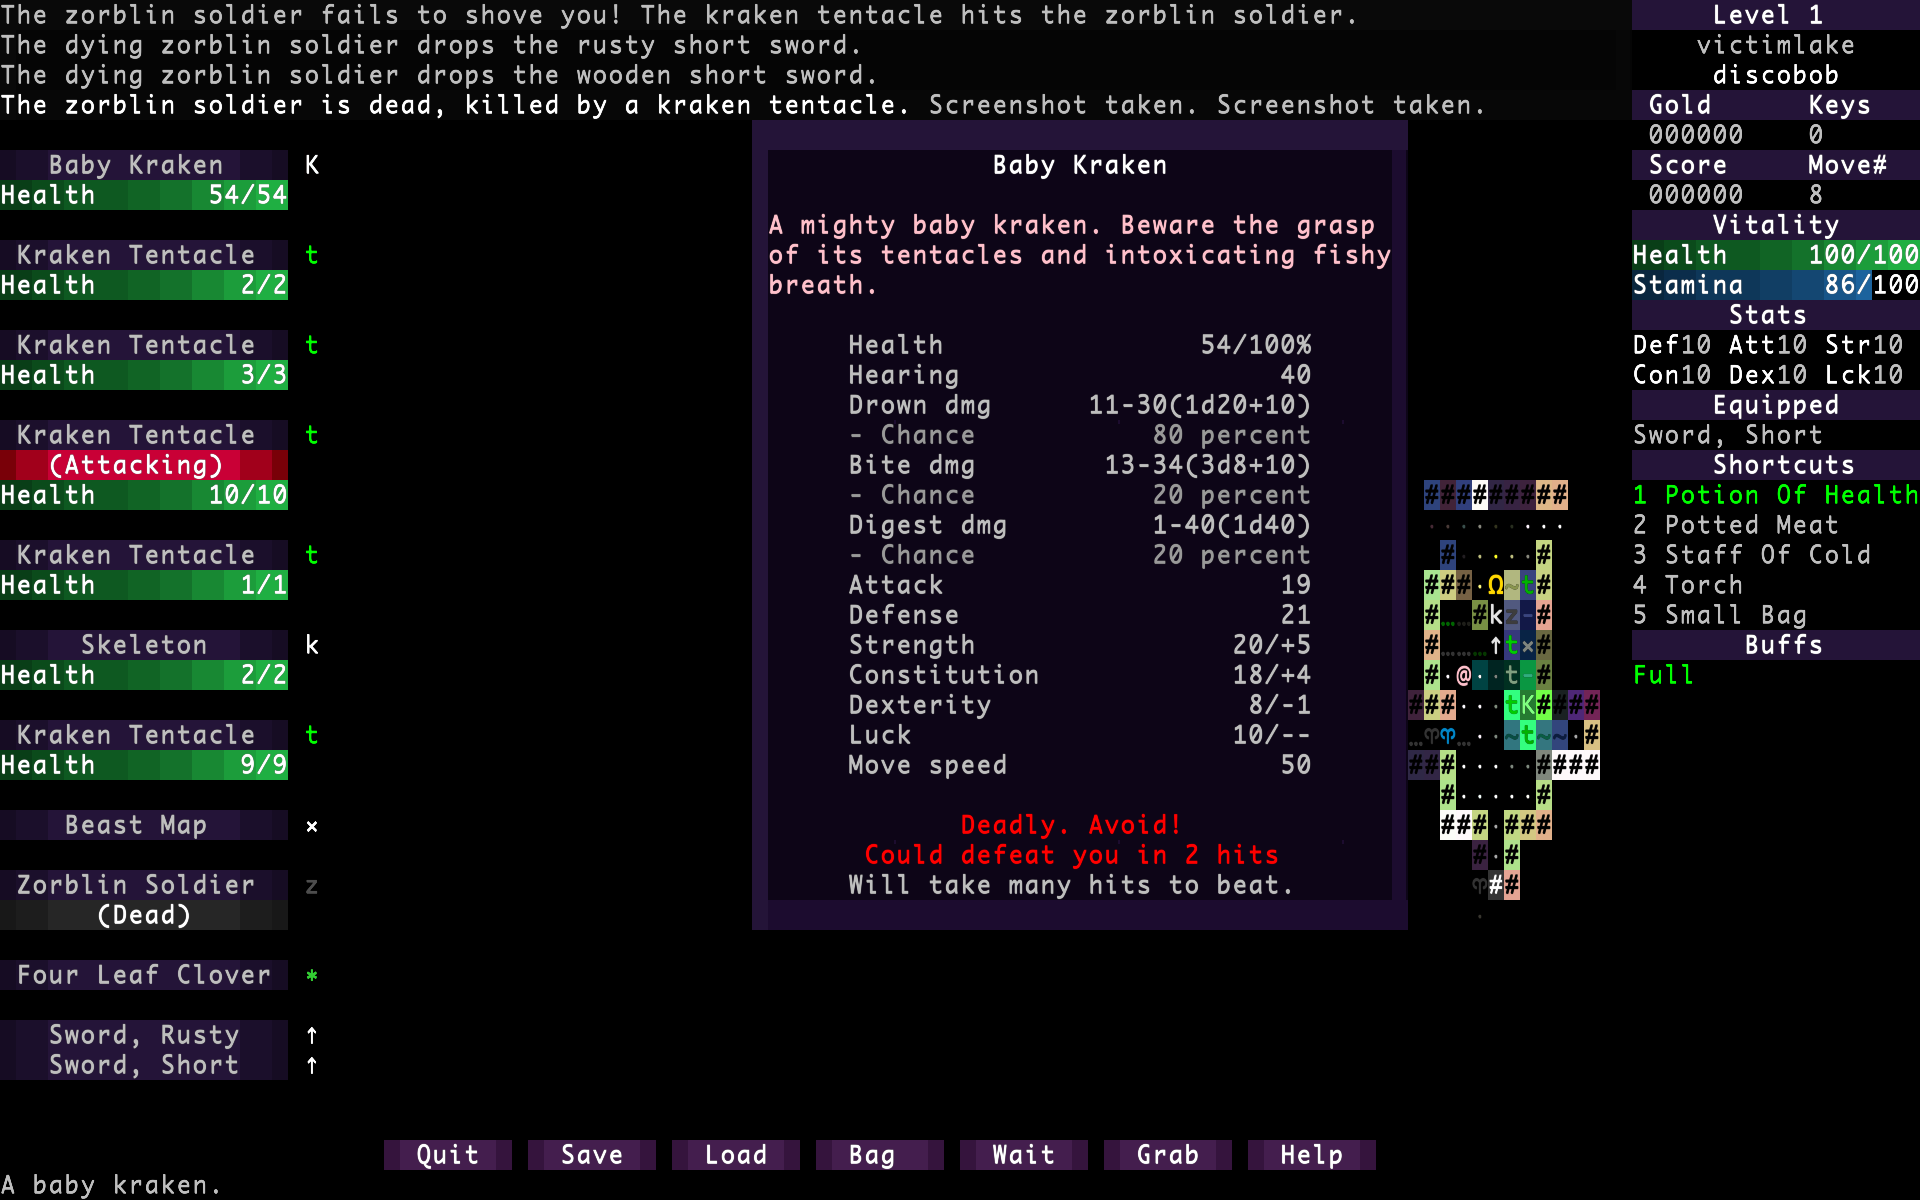
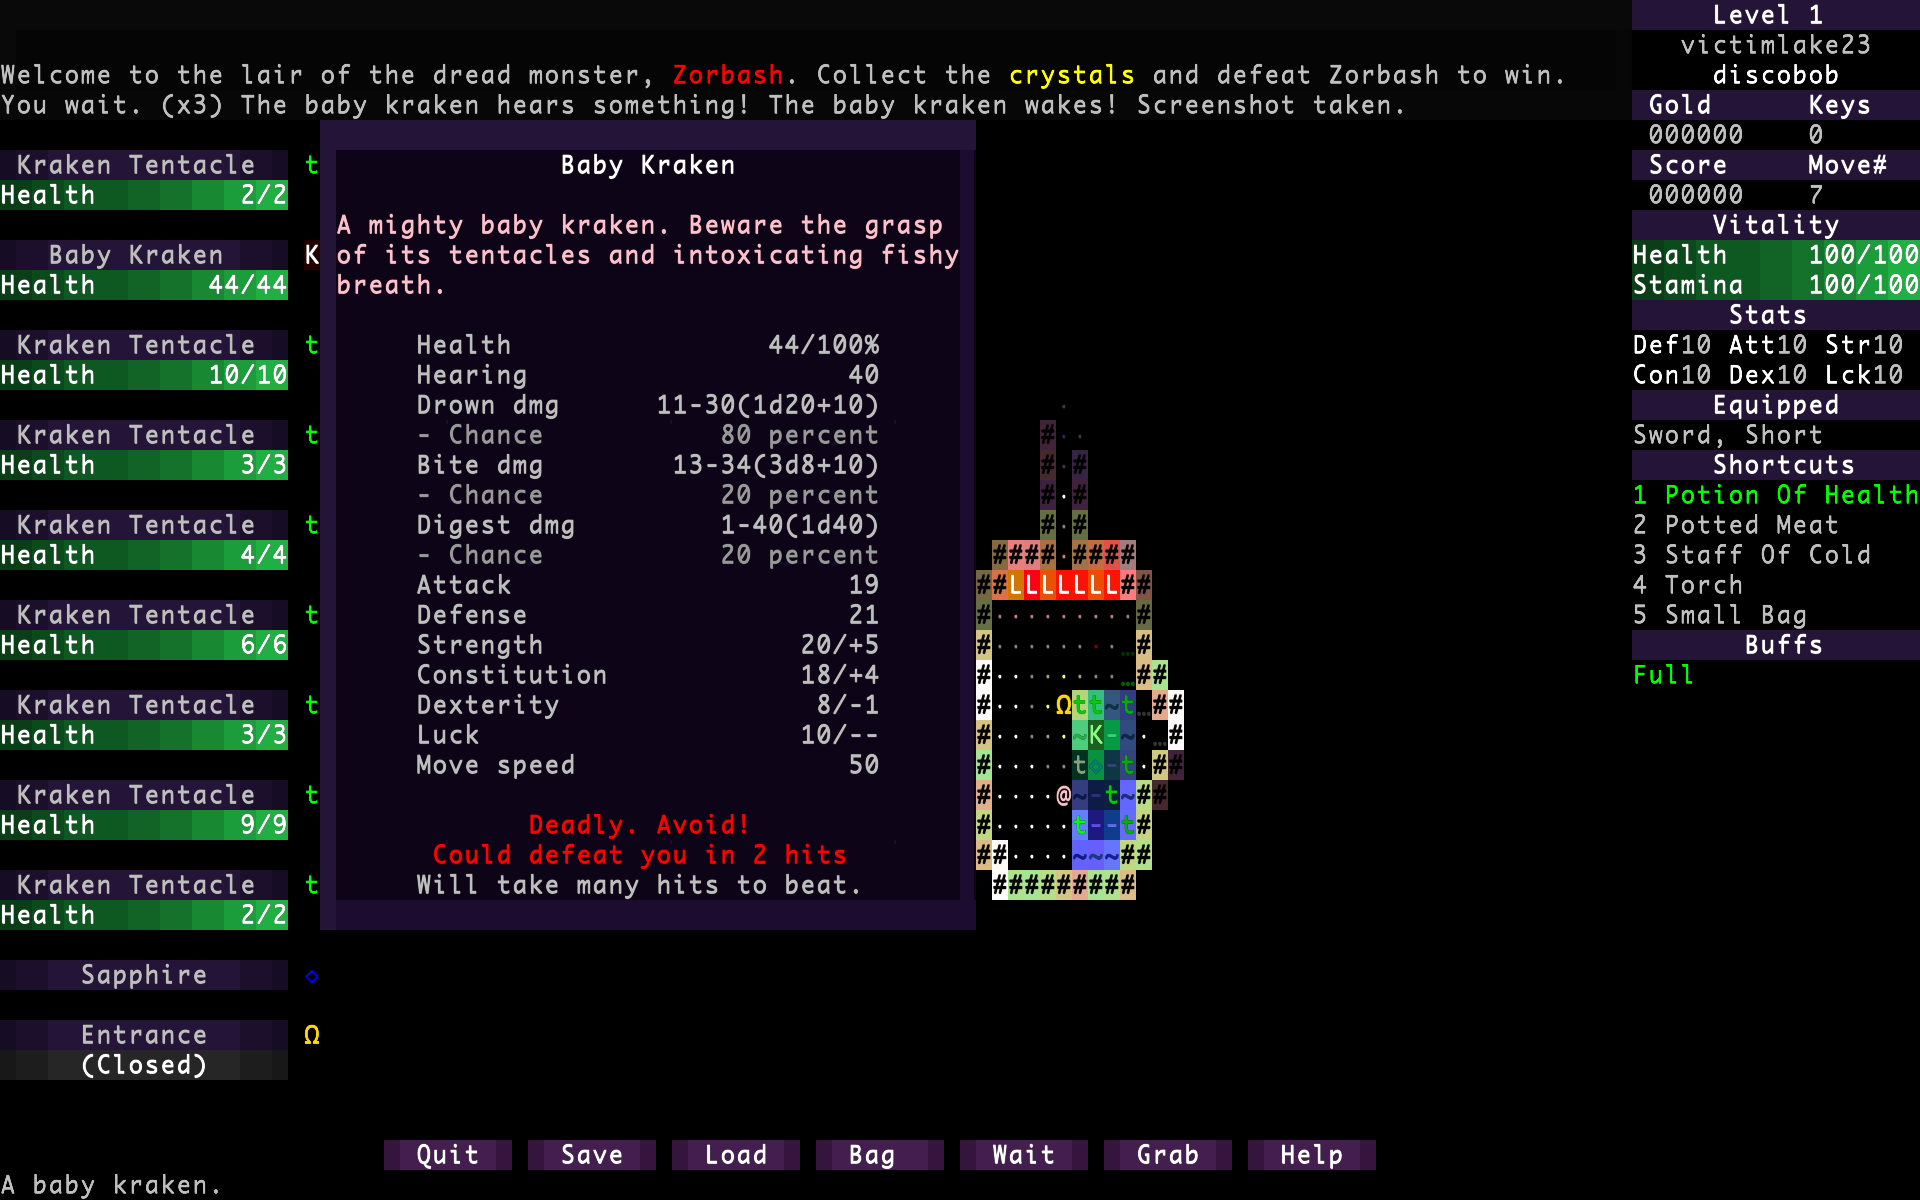
pics

diff --git a/src/game_player.cpp b/src/game_player.cpp
@@ -251,7 +251,7 @@ void Game::place_player(void)
         t->carry(w);
         t->enchant_without_stone(w);
       }
-      if (0) {
+      if (1) {
         level->thing_new("water", point(x + 1, y));
         level->thing_new("deep_water", point(x + 2, y));
         level->thing_new("deep_water", point(x + 3, y));
